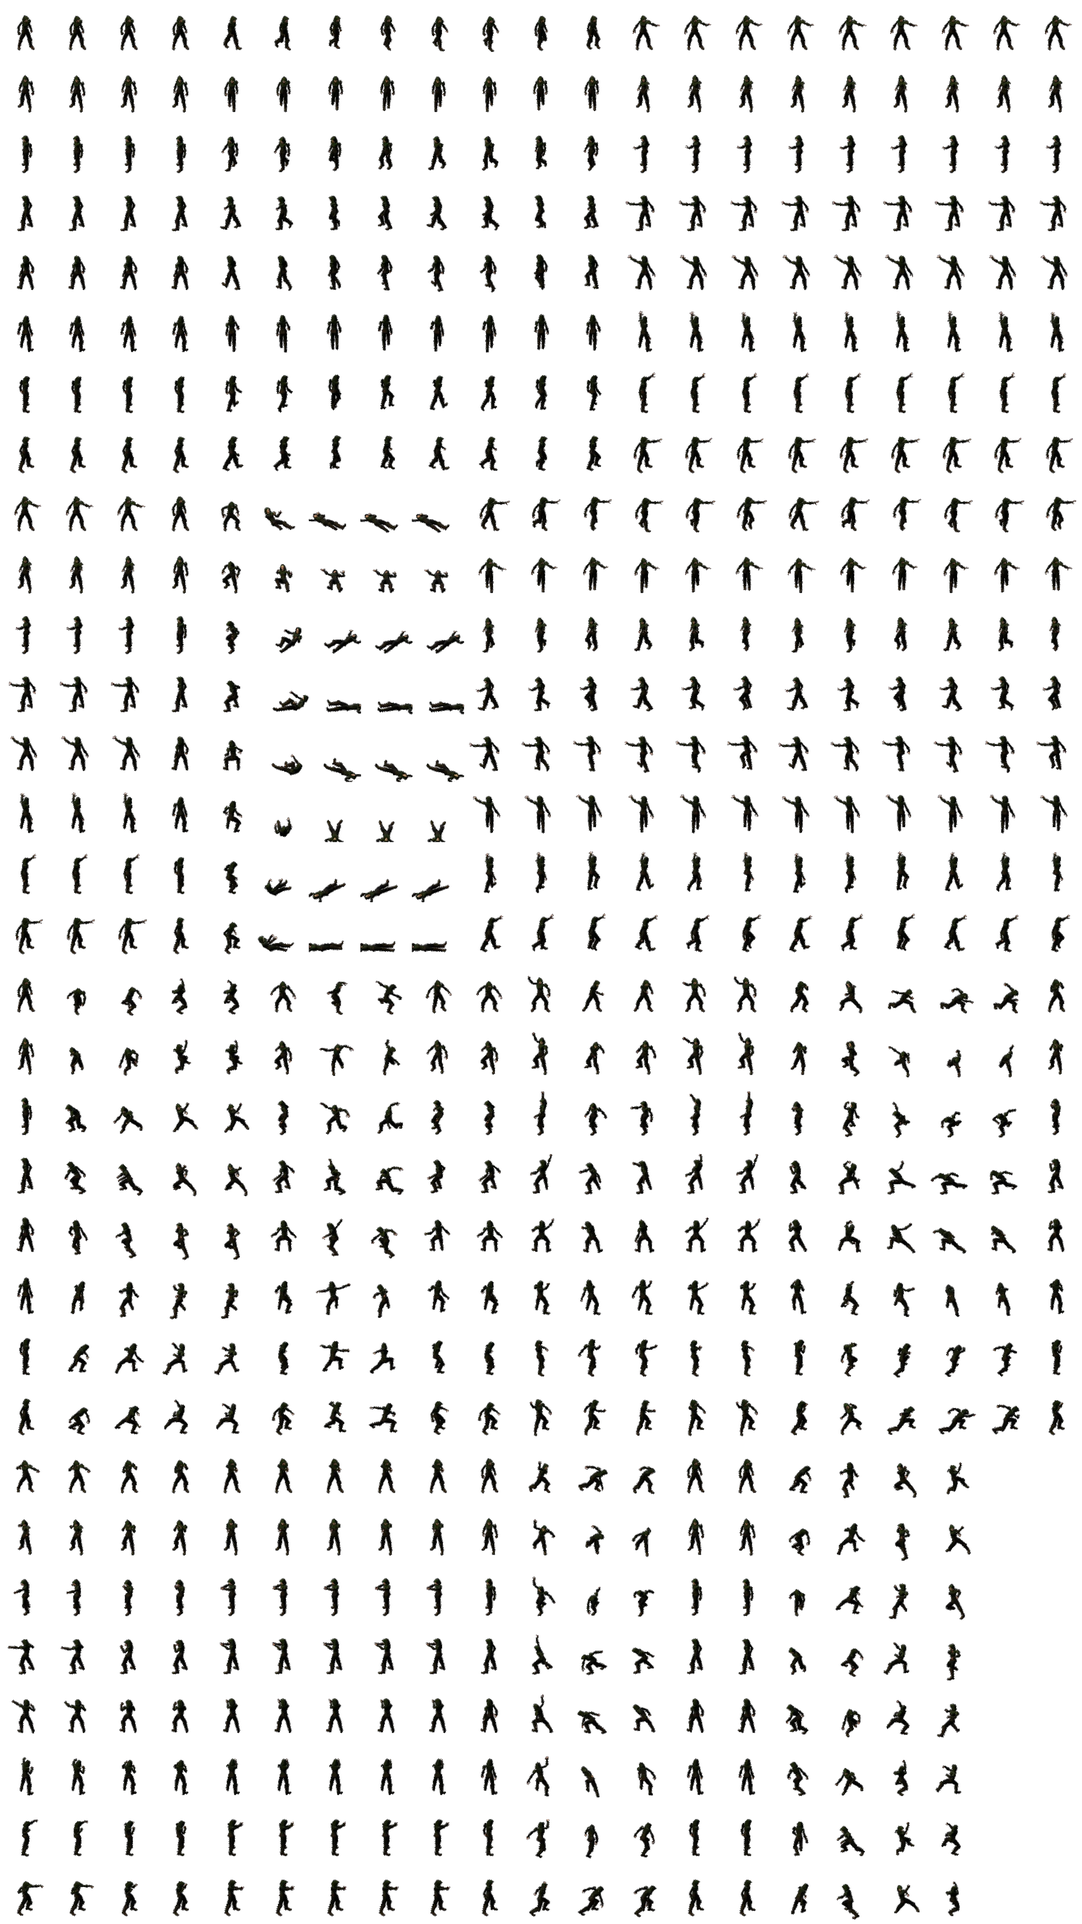
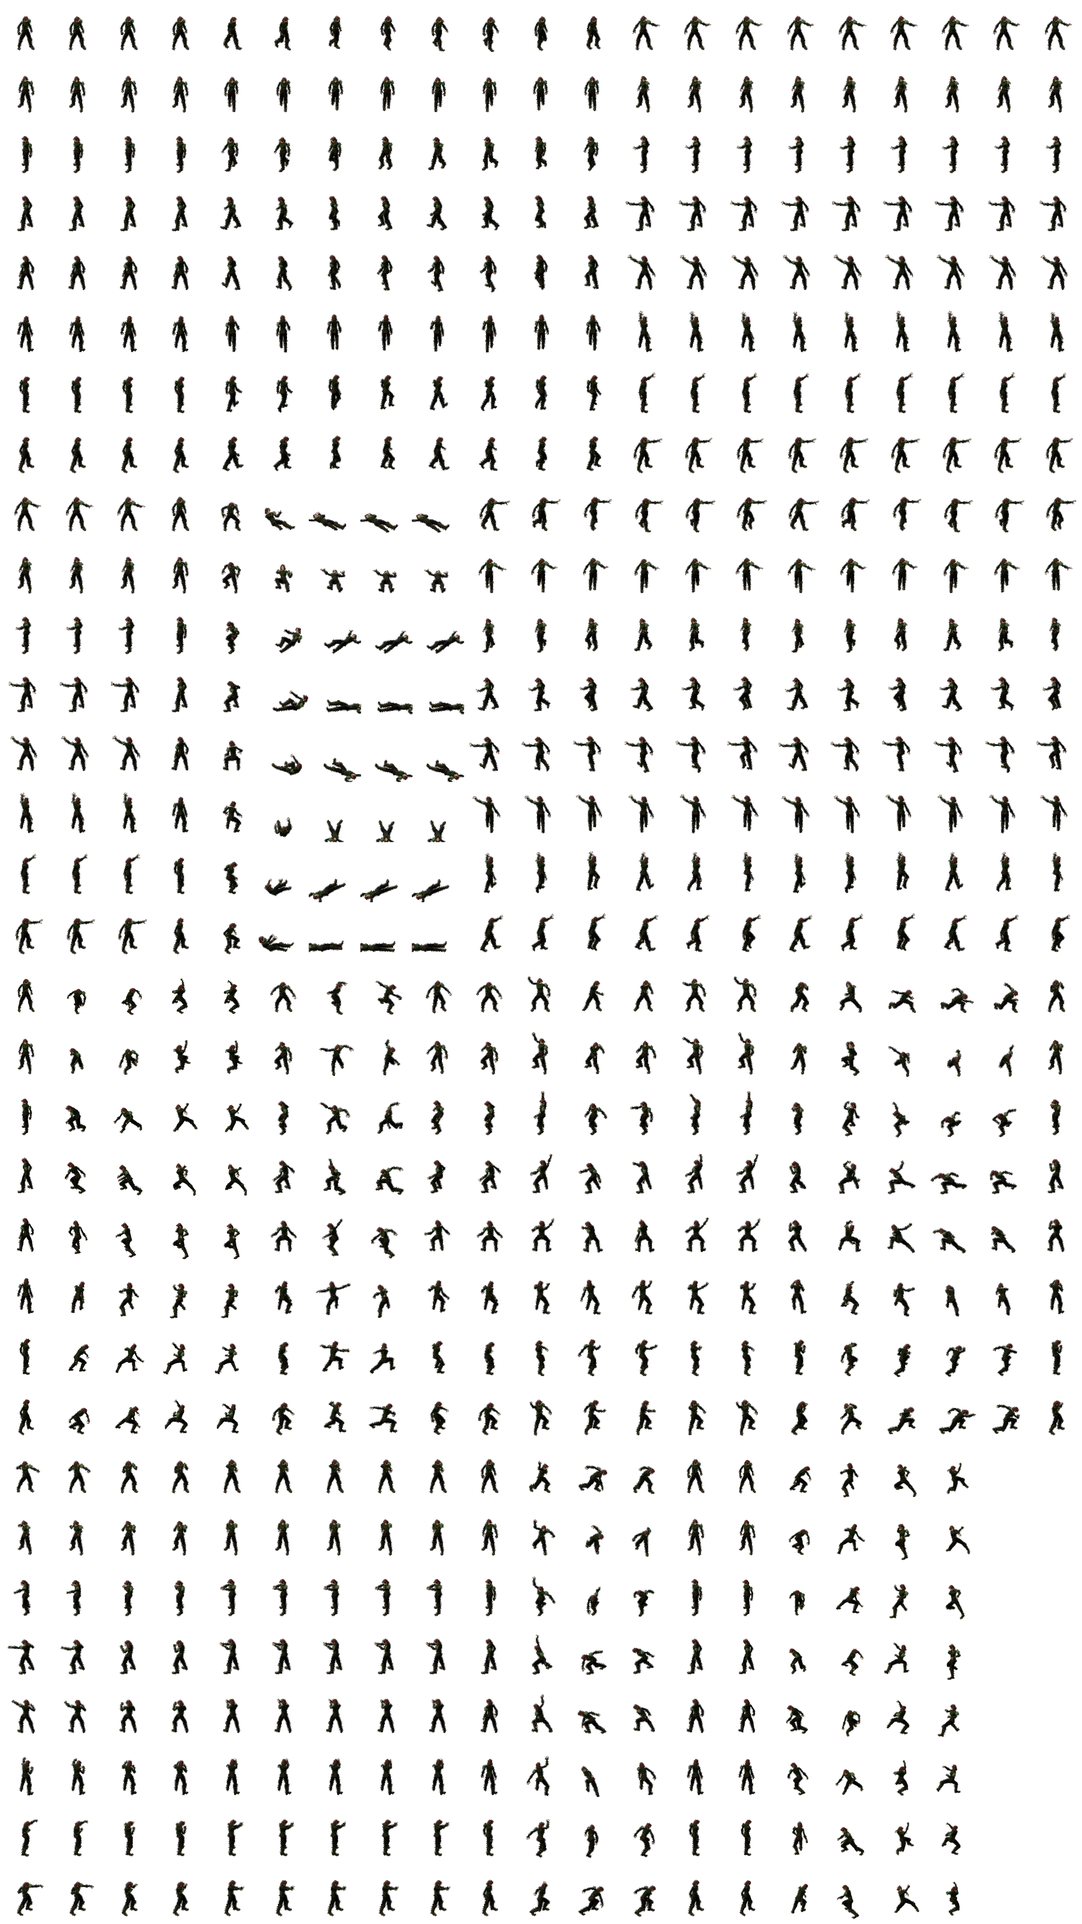
Adapta as cinco classes ao visual de mangá nos sprites jogáveis

diff --git a/tools/sprites/pagina.ts b/tools/sprites/pagina.ts
@@ -8,6 +8,7 @@ import { ColladaLoader } from 'three/addons/loaders/ColladaLoader.js';
 // (esconde o que fica atrás dele) e a peça da camada pinta por cima; as peças tingidas saem em cinza.
 
 import * as THREE from 'three';
+import { GLTFExporter } from 'three/addons/exporters/GLTFExporter.js';
 import { GLTFLoader } from 'three/examples/jsm/loaders/GLTFLoader.js';
 import { clone as clonarComEsqueleto } from 'three/examples/jsm/utils/SkeletonUtils.js';
 import { BASE, COLUNAS_POR_FAIXA, DIRECOES, ehVariante, estadosDe, QUADROS, VARIANTES, type Arma, type Estado, type EstadoBase, type Receita, type Variante } from './receitas';
@@ -145,6 +146,7 @@ interface Montado {
   ossos: Map<string, THREE.Bone>;
   /** A escala de ossos por nome, reaplicada depois de cada pose. */
   escalas: Record<string, number>;
+  adornosCabeca?: THREE.Mesh[];
   /** As criaturas de geometria (`proc:`): a pose de cada estado por deformação. */
   animar?: (estado: EstadoBase, f: number) => void;
 }
@@ -182,7 +184,9 @@ async function montar(r: Receita, urls: Urls): Promise<Montado> {
   const corpo = clonarComEsqueleto((await carregar(urlDe(urls, r.corpo))).cena);
   grupo.add(corpo);
   const ossos = ossosPorNome(corpo);
-  const temCapuz = malhas(corpo).some((m) => m.name.includes('Hood'));
+  const capuzes = malhas(corpo).filter(m => m.name.includes('Hood'));
+  if (r.semCapuz) for (const m of capuzes) m.visible = false;
+  const temCapuz = (!r.semCapuz && capuzes.length > 0) || r.adornosCabeca?.some(ref => ref.includes('Hood'));
   if (r.cabeca) {
     const pescoco = ossos.get('neck_01');
     const colapso = new THREE.Bone();
@@ -195,9 +199,11 @@ async function montar(r: Receita, urls: Urls): Promise<Montado> {
       grupo.add(m);
     }
   }
+  const adornosCabeca = (await Promise.all((r.adornosCabeca ?? []).map(ref => religadas(urlDe(urls, ref), ossos)))).flat();
+  if (adornosCabeca.length > 0) grupo.add(...adornosCabeca);
   colorir(grupo, r.cores, r.emissao);
   const mixer = new THREE.AnimationMixer(grupo);
-  return { grupo, mixer, ossos, escalas: r.ossos ?? {} };
+  return { grupo, mixer, ossos, escalas: r.ossos ?? {}, adornosCabeca };
 }
 
 async function clipe(nome: string, urls: Urls): Promise<THREE.AnimationClip> {
@@ -409,11 +415,38 @@ async function montarCamada(mt: Montado, corpo: THREE.Mesh[], p: PedidoDeCamada,
   return { pedido: p, mats, pinta, extras };
 }
 
+/** Quantiza só a luz. A textura, as cores e as máscaras de profundidade continuam nos materiais do rig. */
+function luzEmFaixas(): (mats: Mats) => Mats {
+  const cache = new Map<THREE.Material, THREE.Material>();
+  const converter = (mat: THREE.Material): THREE.Material => {
+    if (!(mat instanceof THREE.MeshStandardMaterial) || !mat.colorWrite) return mat;
+    const existente = cache.get(mat);
+    if (existente) return existente;
+    const tinta = mat.clone();
+    tinta.roughness = 0.95;
+    tinta.metalness = 0;
+    tinta.onBeforeCompile = (shader) => {
+      shader.fragmentShader = shader.fragmentShader.replace('#include <lights_fragment_end>', `
+        #include <lights_fragment_end>
+        vec3 luz = reflectedLight.directDiffuse + reflectedLight.indirectDiffuse;
+        vec3 pesos = vec3(0.2126, 0.7152, 0.0722);
+        float intensidade = dot(luz, pesos) / max(dot(diffuseColor.rgb, pesos), 0.001);
+        float faixa = intensidade < 0.42 ? 0.41 : intensidade < 0.77 ? 0.78 : 1.27;
+        reflectedLight.directDiffuse = diffuseColor.rgb * faixa;
+        reflectedLight.indirectDiffuse = vec3(0.0);
+      `);
+    };
+    cache.set(mat, tinta);
+    return tinta;
+  };
+  return (mats) => Array.isArray(mats) ? mats.map(converter) : converter(mats);
+}
+
 /**
  * O atlas do corpo (com `comCorpo`) e o das camadas pedidas, na mesma pose de cada quadro. As camadas de uma vez
  * pesam (um canvas do tamanho do atlas cada): o chamador reparte em lotes.
  */
-export async function renderizarAtlas(r: Receita, urls: Urls, camadas: PedidoDeCamada[] = [], comCorpo = true): Promise<SaidaAtlas> {
+export async function renderizarAtlas(r: Receita, urls: Urls, camadas: PedidoDeCamada[] = [], comCorpo = true, referenciaMaos: SaidaAtlas['maos'] = null): Promise<SaidaAtlas> {
   const PX_CELULA = r.pxCelula ?? 72;
   cinzas.clear();
   naFrente.clear();
@@ -427,7 +460,11 @@ export async function renderizarAtlas(r: Receita, urls: Urls, camadas: PedidoDeC
 
   // A altura: a pessoa parada (o primeiro quadro do parado) mede `altura` células.
   pose(mt, clipes.parado, 0);
+  const adornos = mt.adornosCabeca ?? [];
+  // O cabelo muda a silhueta, mas não muda a escala, a âncora ou os encaixes.
+  mt.grupo.remove(...adornos);
   const caixa = new THREE.Box3().setFromObject(mt.grupo, !!r.apoiarNoChao);
+  if (adornos.length > 0) mt.grupo.add(...adornos);
   const k = r.altura / (caixa.max.y - caixa.min.y || 1);
   const largura = r.largura ?? 1;
   mt.grupo.scale.set(k * largura, k, k * largura);
@@ -503,10 +540,17 @@ export async function renderizarAtlas(r: Receita, urls: Urls, camadas: PedidoDeC
   const maos = comCorpo && r.equipamento ? { d: [] as number[], e: [] as number[] } : null;
   const telas = montadas.map(() => tela());
 
+  const estilo = r.manga ? luzEmFaixas() : null;
+  if (estilo) {
+    for (const cm of montadas) for (const extra of cm.extras) {
+      for (const m of malhas(extra)) m.material = estilo(m.material);
+    }
+  }
   const bacia = mt.ossos.get('pelvis') ?? (r.apoiarNoChao ? mt.ossos.get('base') : null) ?? null;
   const aplicar = (cm: CamadaMontada | null) => {
     for (const m of corpo) {
-      m.material = cm ? (cm.mats.get(m) ?? m.material) : (originais.get(m) ?? m.material);
+      const materiaisDoQuadro = (cm?.mats.get(m) ?? originais.get(m)) ?? m.material;
+      m.material = estilo ? estilo(materiaisDoQuadro) : materiaisDoQuadro;
       // O que a camada pinta vem depois da máscara do resto do corpo.
       m.renderOrder = cm?.pinta.has(m) ? 1 : 0;
     }
@@ -554,14 +598,45 @@ export async function renderizarAtlas(r: Receita, urls: Urls, camadas: PedidoDeC
         const coluna = estados[e].inicio + i;
         const x = (coluna % faixa) * quadroL;
         const y = (Math.floor(coluna / faixa) * DIRECOES + d) * quadroA;
+        let dx = 0;
+        let dy = 0;
         if (maos) {
-          maos.d.push(...medirMao(mt, 'r', camera, quadroL, quadroA, PX_CELULA, pele));
-          maos.e.push(...medirMao(mt, 'l', camera, quadroL, quadroA, PX_CELULA, pele));
+          const iMao = maos.d.length;
+          const dAnterior = referenciaMaos?.d.slice(iMao, iMao + 5);
+          const eAnterior = referenciaMaos?.e.slice(iMao, iMao + 5);
+          if (dAnterior?.length === 5 && eAnterior?.length === 5) {
+            const dAtual = medirMao(mt, 'r', camera, quadroL, quadroA, PX_CELULA);
+            const eAtual = medirMao(mt, 'l', camera, quadroL, quadroA, PX_CELULA);
+            dx = (dAnterior[0] ?? 0) - (dAtual[0] ?? 0);
+            dy = (dAnterior[1] ?? 0) - (dAtual[1] ?? 0);
+            // O UAL pode mudar a origem do golpe. A mesma translação nas duas mãos
+            // preserva o encaixe da armadura; mudança na pose pede um atlas novo.
+            const perto = (a: number, b: number) => Math.abs(a - b) <= 0.025;
+            if (!perto(dx, (eAnterior[0] ?? 0) - (eAtual[0] ?? 0)) || !perto(dy, (eAnterior[1] ?? 0) - (eAtual[1] ?? 0)) ||
+                !perto((dAnterior[2] ?? 0), (dAtual[2] ?? 0)) || !perto((eAnterior[2] ?? 0), (eAtual[2] ?? 0)) ||
+                !perto((dAnterior[3] ?? 0), (dAtual[3] ?? 0)) || !perto((eAnterior[3] ?? 0), (eAtual[3] ?? 0))) {
+              throw new Error(`Pose incompatível com a armadura: ${r.nome} / ${e} / ${d}:${i}`);
+            }
+            maos.d.push(...dAnterior);
+            maos.e.push(...eAnterior);
+          } else {
+            maos.d.push(...medirMao(mt, 'r', camera, quadroL, quadroA, PX_CELULA, pele));
+            maos.e.push(...medirMao(mt, 'l', camera, quadroL, quadroA, PX_CELULA, pele));
+          }
         }
         if (atlas) {
           aplicar(null);
           renderer.render(cena, camera);
-          atlas.g.drawImage(renderer.domElement, x, y);
+          if (dx || dy) {
+            atlas.g.save();
+            atlas.g.beginPath();
+            atlas.g.rect(x, y, quadroL, quadroA);
+            atlas.g.clip();
+            atlas.g.drawImage(renderer.domElement, x + dx, y + dy);
+            atlas.g.restore();
+          } else {
+            atlas.g.drawImage(renderer.domElement, x, y);
+          }
         }
         montadas.forEach((cm, j) => {
           aplicar(cm);
@@ -592,9 +667,28 @@ export async function renderizarAtlas(r: Receita, urls: Urls, camadas: PedidoDeC
   };
 }
 
+/** Exporta o rig já montado com os clipes de origem usados no atlas. */
+async function exportarModelo(r: Receita, urls: Urls): Promise<string> {
+  const { grupo } = await montar(r, urls);
+  const nomes = new Set([...Object.values(r.animacoes ?? {}), ...Object.values(VARIANTES)]);
+  const animations = await Promise.all([...nomes].map(nome => clipe(nome, urls)));
+  grupo.name = r.nome;
+  const glb = await new GLTFExporter().parseAsync(grupo, { binary: true, animations, maxTextureSize: 1024 });
+  if (!(glb instanceof ArrayBuffer)) throw new Error('Exportação GLB não retornou bytes');
+  return new Promise((resolve, reject) => {
+    const leitor = new FileReader();
+    leitor.onerror = () => { reject(new Error('Falha ao codificar o GLB')); };
+    leitor.onload = () => {
+      if (typeof leitor.result !== 'string') { reject(new Error('Codificação GLB inválida')); return; }
+      resolve(leitor.result.split(',')[1] ?? '');
+    };
+    leitor.readAsDataURL(new Blob([glb], { type: 'model/gltf-binary' }));
+  });
+}
+
 declare global {
   interface Window {
-    personagens: { renderizarAtlas: typeof renderizarAtlas; renderizarArmas: typeof renderizarArmas };
+    personagens: { renderizarAtlas: typeof renderizarAtlas; renderizarArmas: typeof renderizarArmas; exportarModelo: typeof exportarModelo };
   }
 }
-window.personagens = { renderizarAtlas, renderizarArmas };
+window.personagens = { renderizarAtlas, renderizarArmas, exportarModelo };

diff --git a/tools/sprites/render.ts b/tools/sprites/render.ts
@@ -20,9 +20,16 @@ const B = join(RAIZ, '.brutos');
 const PASTAS: Record<string, string[]> = {
   cethiel: [join(B, 'dragao-realista', 'x')],
   base: [join(B, 'q-base', 'x', 'Universal Base Characters[Standard]', 'Base Characters', 'Godot - UE')],
+  cabelo: [
+    join(B, 'q-base', 'x', 'Universal Base Characters[Standard]', 'Hairstyles', 'Rigged to Head Bone', 'glTF (Godot -Unreal)'),
+    join(B, 'q-base', 'x', 'Universal Base Characters[Standard]', 'Hairstyles', 'Textures'),
+  ],
   traje: [join(B, 'q-trajes', 'x', 'Modular Character Outfits - Fantasy[Standard]', 'Exports', 'glTF (Godot-Unreal)')],
   ual1: [join(B, 'q-anim', 'x', 'Universal Animation Library[Standard]', 'Unreal-Godot')],
-  ual2: [join(B, 'q-anim2', 'x', 'Universal Animation Library 2 [Standard]', 'Unreal-Godot')],
+  ual2: [
+    join(B, 'q-anim2', 'x', 'Universal Animation Library 2[Standard]', 'Unreal-Godot'),
+    join(B, 'q-anim2', 'x', 'Universal Animation Library 2 [Standard]', 'Unreal-Godot'),
+  ],
   kes: [join(B, 'k-esqueletos', 'x', 'KayKit_Skeletons_1.1_FREE')],
   q: [join(B, 'quaternius-props', 'x', 'Exports', 'glTF'), join(B, 'quaternius-props', 'x', 'Textures')],
 };
@@ -41,7 +48,7 @@ function caminhoDe(ref: string): string {
   if (pacote === 'ual2') return 'ual2/UAL2_Standard.glb';
   if (pacote === 'kes-anim') return `kes/Animations/gltf/Rig_Medium/Rig_Medium_${nome === 'Movement' ? 'MovementBasic' : nome}.glb`;
   if (pacote === 'q') return `q/${nome}.gltf`;
-  if (pacote === 'base' || pacote === 'traje') return `${pacote}/${nome}.gltf`;
+  if (pacote === 'base' || pacote === 'traje' || pacote === 'cabelo') return `${pacote}/${nome}.gltf`;
   return `${pacote}/${nome}`;
 }
 
@@ -51,7 +58,9 @@ function arquivoNoDisco(caminho: string): string | null {
   const nome = resto[resto.length - 1] ?? '';
   if (pacote === 'cethiel' && nome === 'dragon.png') return join(B, 'dragao-realista', 'x', 'dragon_black.png');
   for (const pasta of PASTAS[pacote] ?? []) {
-    for (const f of [join(pasta, rel), join(pasta, nome)]) if (existsSync(f)) return f;
+    for (const f of [join(pasta, rel), join(pasta, nome), join(pasta, nome.replace(/_png\.png$/, '.png'))]) {
+      if (existsSync(f)) return f;
+    }
   }
   // As texturas do traje ficam ao lado de cada gltf (Outfits/ ou Modular Parts/).
   if (pacote === 'traje') for (const sub of ['Outfits', 'Modular Parts']) {
@@ -86,6 +95,7 @@ function urlsDe(r: Receita, camadas: PedidoDeCamada[]): Record<string, string> {
   const refs = [
     ...(r.corpo.startsWith('proc:') ? [] : [r.corpo]),
     ...(r.cabeca ? [r.cabeca] : []),
+    ...(r.adornosCabeca ?? []),
     ...(r.armas ?? []).map((a) => a.m),
     ...camadas.flatMap((c) => [...(c.pecas ?? []), ...(c.armas ?? []).map((a) => a.m)]),
   ];
@@ -104,11 +114,20 @@ const args = process.argv.slice(2);
 const iSo = args.indexOf('--so');
 const so = iSo >= 0 ? new Set((args[iSo + 1] ?? '').split(',')) : null;
 const soCorpo = args.includes('--so-corpo');
+// Use só em revisões que preservam os rigs, a arma, a pose e a geometria do tronco.
+const reusarMaos = soCorpo && args.includes('--reusar-maos');
 const comArmas = args.includes('--armas');
+const iModelos = args.indexOf('--modelos');
+const pastaModelos = iModelos >= 0 ? args[iModelos + 1] : undefined;
+if (iModelos >= 0 && (!pastaModelos || pastaModelos.startsWith('--'))) throw new Error('Use --modelos <diretório>');
+if (pastaModelos) mkdirSync(pastaModelos, { recursive: true });
 mkdirSync(DESTINO, { recursive: true });
 const pacote = await build({ entryPoints: [join(import.meta.dirname, 'pagina.ts')], bundle: true, format: 'iife', write: false, platform: 'browser' });
 const codigo = pacote.outputFiles[0]?.text ?? '';
-const navegador = await chromium.launch({ args: ['--use-angle=swiftshader', '--enable-unsafe-swiftshader'] });
+// O padrão em software é reproduzível no CI. --gpu permite usar o driver local na geração, fora do jogo.
+const navegador = await chromium.launch({
+  args: args.includes('--gpu') ? ['--enable-gpu'] : ['--use-angle=swiftshader', '--enable-unsafe-swiftshader'],
+});
 const pagina = await navegador.newPage();
 pagina.on('console', (m) => {
   if (m.type() === 'error') console.error('[página]', m.text());
@@ -167,6 +186,15 @@ if (comArmas) {
 const catalogo: Record<string, Entrada> = existsSync(caminhoCatalogo) ? (JSON.parse(readFileSync(caminhoCatalogo, 'utf8')) as Record<string, Entrada>) : {};
 for (const receita of RECEITAS) {
   if ((so && !so.has(receita.nome)) || (comArmas && !so)) continue;
+  if (pastaModelos) {
+    if (!receita.manga) continue;
+    const urls = urlsDe(receita, []);
+    const base64 = await pagina.evaluate(([r, u]) => window.personagens.exportarModelo(r, u), [receita, urls] as const);
+    const bytes = Buffer.from(base64, 'base64');
+    writeFileSync(join(pastaModelos, `${receita.nome}.glb`), bytes);
+    console.log(receita.nome, `${Math.round(bytes.length / 1024)} KB GLB`);
+    continue;
+  }
   const inicio = Date.now();
   const camadas = soCorpo ? [] : camadasDe(receita);
   const urls = urlsDe(receita, camadas);
@@ -174,9 +202,18 @@ for (const receita of RECEITAS) {
   for (let k = 0; k < Math.max(1, camadas.length); k += LOTE) lotes.push(camadas.slice(k, k + LOTE));
   let bytesTotal = 0;
   for (const [k, lote] of lotes.entries()) {
-    const saida = await pagina.evaluate(async ([r, u, c, corpo]) => window.personagens.renderizarAtlas(r, u, c, corpo), [receita, urls, lote, k === 0] as const);
+    const referencia = reusarMaos ? catalogo[receita.nome]?.maos ?? null : null;
+    const saida = await pagina.evaluate(([r, u, c, corpo, maos]) => window.personagens.renderizarAtlas(r, u, c, corpo, maos),
+      [receita, urls, lote, k === 0, referencia] as const);
     const { quadroL, quadroA, ancoraX, ancoraY, pxCelula, colunas, faixa, estados } = saida;
     const entrada = { quadroL, quadroA, ancoraX, ancoraY, pxCelula, colunas, faixa, estados, altura: receita.altura };
+    const anterior = catalogo[receita.nome];
+    if (soCorpo && receita.equipamento && anterior && (
+      quadroL !== anterior.quadroL || quadroA !== anterior.quadroA ||
+      ancoraX !== anterior.ancoraX || ancoraY !== anterior.ancoraY ||
+      pxCelula !== anterior.pxCelula || colunas !== anterior.colunas || faixa !== anterior.faixa ||
+      JSON.stringify(estados) !== JSON.stringify(anterior.estados)
+    )) throw new Error(`Regere também as camadas de ${receita.nome}: a geometria do atlas mudou.`);
     const gravar = async (nome: string, png: string) => {
       const bytes = await webpDe(png);
       writeFileSync(join(DESTINO, `${nome}.webp`), bytes);
@@ -192,5 +229,5 @@ for (const receita of RECEITAS) {
   }
   console.log(' ', receita.nome, `${camadas.length} camadas`, `${Math.round(bytesTotal / 1024)} KB`, `${Date.now() - inicio} ms`);
 }
-writeFileSync(caminhoCatalogo, `${JSON.stringify(Object.fromEntries(Object.entries(catalogo).sort(([a], [b]) => a.localeCompare(b))), null, 2)}\n`);
+if (!pastaModelos) writeFileSync(caminhoCatalogo, `${JSON.stringify(Object.fromEntries(Object.entries(catalogo).sort(([a], [b]) => a.localeCompare(b))), null, 2)}\n`);
 await navegador.close();

diff --git a/tools/sprites/receitas.ts b/tools/sprites/receitas.ts
@@ -114,6 +114,10 @@ export interface Receita {
   /** Escala de ossos por nome (a cabeça grande do esqueleto do KayKit encolhe). */
   ossos?: Record<string, number>;
   exposicao?: number;
+  /** Iluminação em faixas usada apenas durante a geração dos atlas. */
+  manga?: boolean;
+  semCapuz?: boolean;
+  adornosCabeca?: string[];
   /** O quadro (em células, em volta dos pés) quando o modelo é maior que o padrão. */
   quadro?: { largura: number; altura: number; baixo: number };
   /** Armadura fixa no corpo (a sentinela): o grau do elmo e do peito, com a cor de destaque. */
@@ -148,48 +152,59 @@ const CABECA_F = 'base:Superhero_Female_FullBody';
 export const RECEITAS: Receita[] = [
   {
     nome: 'guerreiro',
+    manga: true,
+    semCapuz: true,
+    adornosCabeca: ['cabelo:Hair_SimpleParted', 'cabelo:Hair_Beard'],
     corpo: RANGER_M,
     cabeca: CABECA_M,
     altura: 1.14,
-    cores: { Ranger: 0xc8ccd2, Hair: 0x3a2a1e },
+    cores: { Ranger: 0xa45145, Hair: 0x784628 },
     animacoes: ESPADA,
     equipamento: DO_RANGER,
   },
   {
     nome: 'mago',
+    manga: true,
+    adornosCabeca: ['cabelo:Hair_SimpleParted'],
     corpo: CAMPONES_M,
     cabeca: CABECA_M,
     altura: 1.12,
-    cores: { Peasant: 0x7a90e0, Hair: 0xb8b0a0 },
+    cores: { Peasant: 0x637bb3, Hair: 0x212533 },
     exposicao: 2.1,
     animacoes: MAGIA,
     equipamento: DO_CAMPONES,
   },
   {
     nome: 'arqueiro',
+    manga: true,
+    semCapuz: true,
+    adornosCabeca: ['cabelo:Hair_Long'],
     corpo: RANGER_F,
     cabeca: CABECA_F,
     altura: 1.08,
-    cores: { Ranger: 0x7d9a6a, Hair: 0x5a3a22 },
+    cores: { Ranger: 0x779555, Hair: 0x834832 },
     animacoes: MAGIA,
     equipamento: DO_RANGER,
   },
   {
     nome: 'necromante',
+    manga: true,
     corpo: RANGER_M,
     cabeca: CABECA_M,
     altura: 1.14,
-    cores: { Ranger: 0x8a70a8, Superhero: 0xc8d4c8, Regular: 0xc8d4c8, Hair: 0x1a1a1a },
+    cores: { Ranger: 0x746082, Superhero: 0xd5d1dc, Regular: 0xd5d1dc, Hair: 0xc3b8ce },
     exposicao: 1.8,
     animacoes: MAGIA,
     equipamento: DO_RANGER,
   },
   {
     nome: 'aventureiro',
+    manga: true,
+    adornosCabeca: ['traje:Modular Parts/Male_Ranger_Head_Hood'],
     corpo: CAMPONES_M,
     cabeca: CABECA_M,
     altura: 1.12,
-    cores: { Peasant: 0xa0b4d8, Hair: 0x6a4a2a },
+    cores: { Peasant: 0xa59a6e, Ranger: 0x979c65, Hair: 0x523921 },
     exposicao: 1.8,
     animacoes: HUMANO,
     equipamento: DO_CAMPONES,

diff --git a/src/assets/personagens/LICENCAS.md b/src/assets/personagens/LICENCAS.md
@@ -61,3 +61,11 @@ O Necromante Ancestral reutiliza o atlas CC0 `necromante` já documentado acima.
 
 As invocações do necromante jogador recebem tonalidade avermelhada nas duas projeções;
 as do boss usam o preset exclusivo `esqueleto_do_ossuario`, negro mesmo sem o dono no recorte de rede.
+
+## Classes com visual de mangá
+
+Os corpos jogáveis usam os mesmos rigs e clipes CC0 listados acima, com paletas inspiradas nos retratos e peças de cabelo, barba e capuz dos pacotes originais. O acabamento em faixas de luz e contorno é aplicado na geração do WebP.
+
+- Para reproduzir os corpos, com os pacotes Standard extraídos em `.brutos`: `npx tsx tools/sprites/render.ts --so-corpo --reusar-maos --so aventureiro,guerreiro,mago,arqueiro,necromante`.
+- Para exportar os cinco rigs montados e seus clipes de origem: `npx tsx tools/sprites/render.ts --modelos <diretório>`. O GLB contém a malha e as texturas. A iluminação do atlas é definida pelo gerador.
+- `--gpu` usa a aceleração gráfica local para a geração. A opção `--reusar-maos` é destinada a alterações que preservam os encaixes e a geometria do tronco. Quando só a origem de um golpe muda, o corpo é alinhado ao atlas de armadura. Se a pose divergir, o gerador pede a regeneração das camadas.
